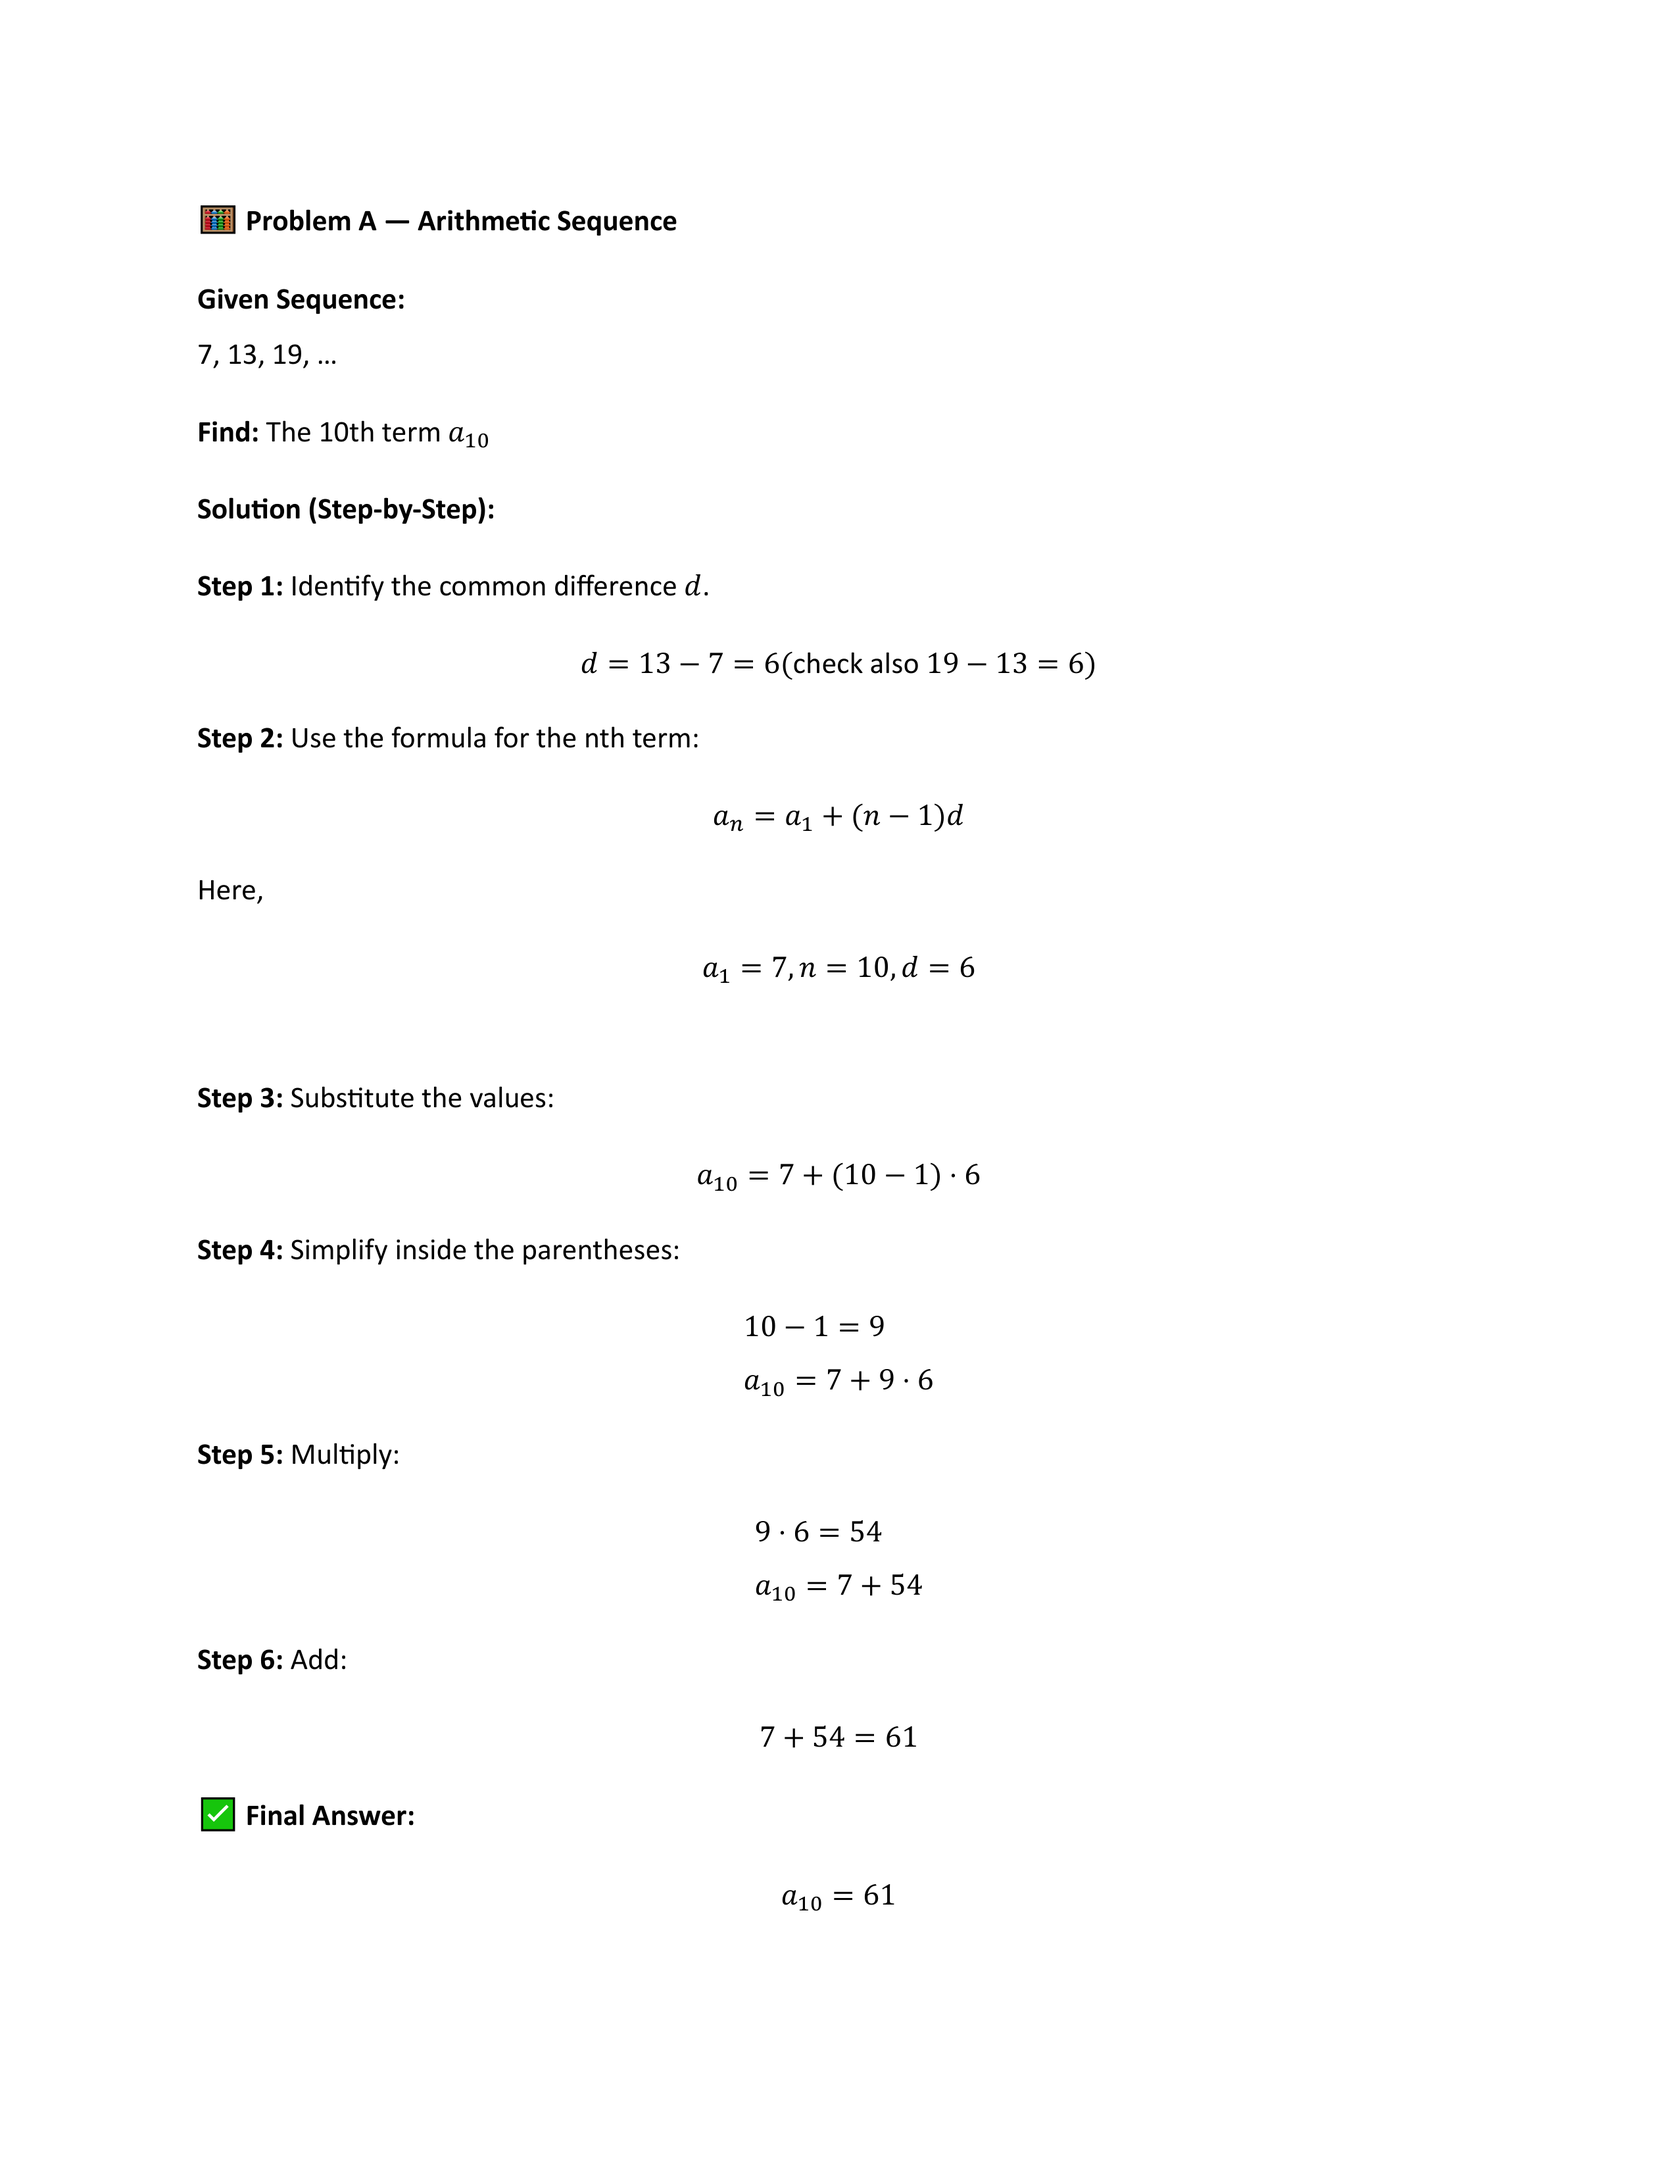
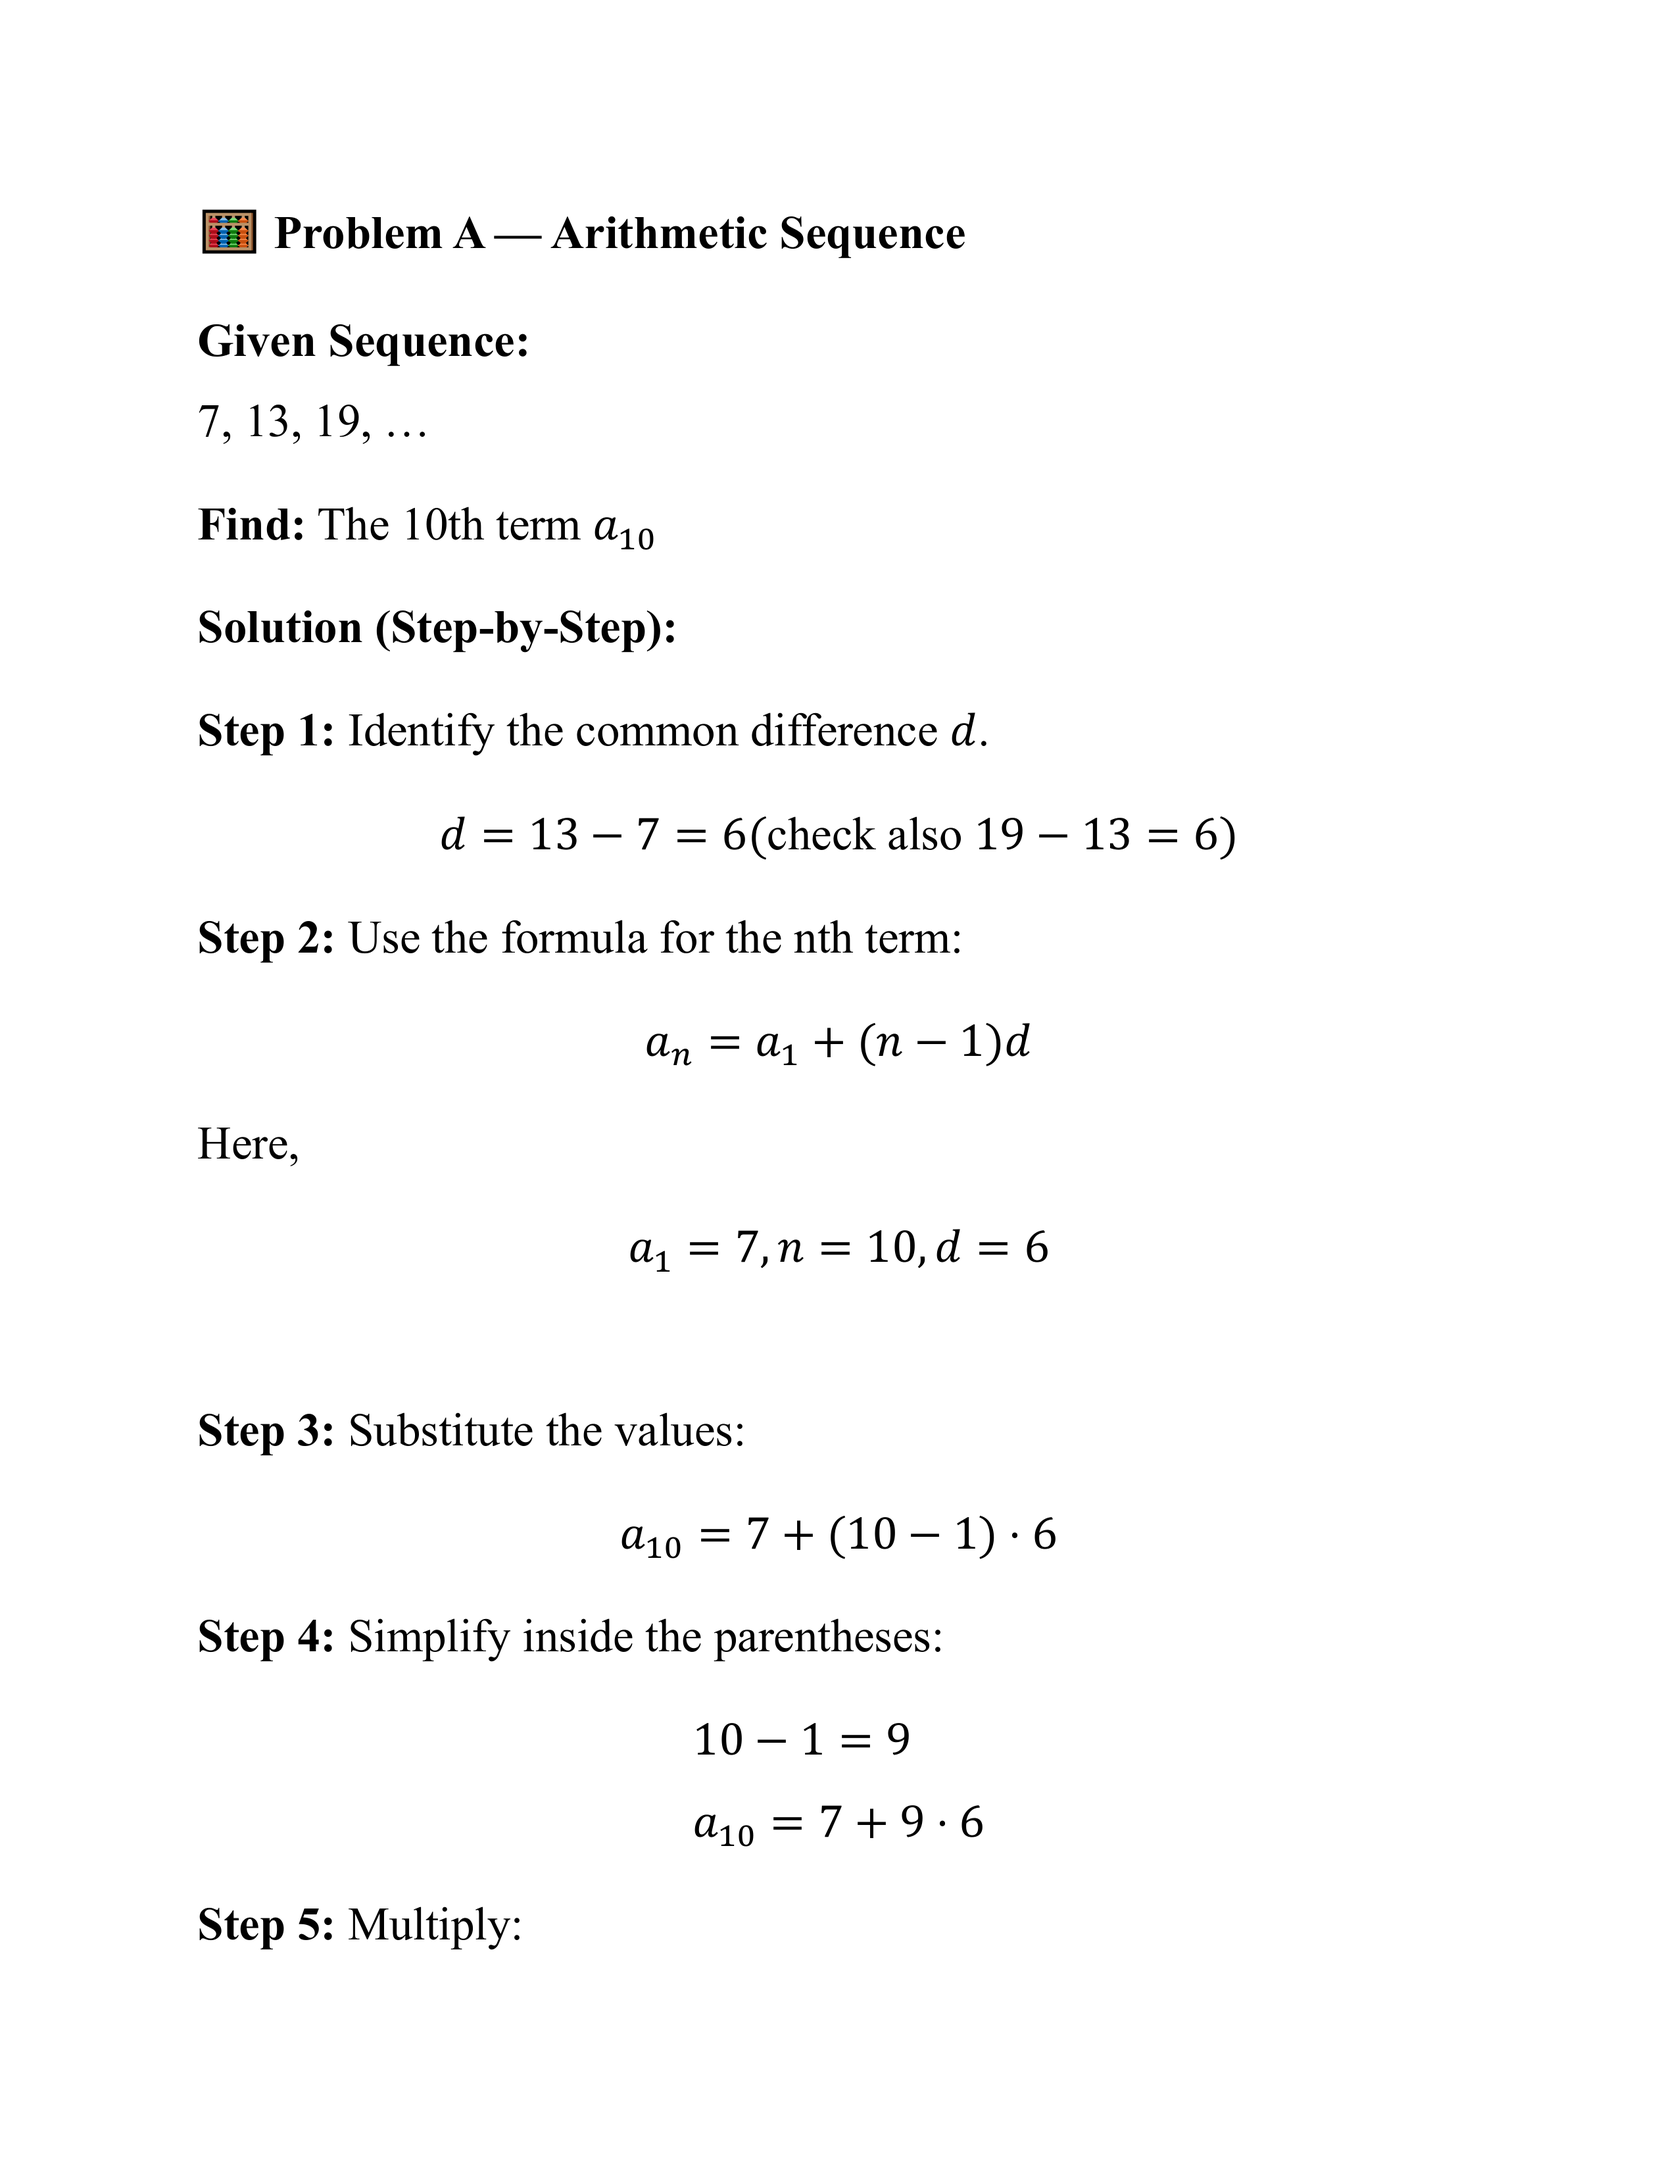
added module and a1

diff --git a/src/Dashboard/Arithmetic_Sequence/Arithmetic_Module.tsx b/src/Dashboard/Arithmetic_Sequence/Arithmetic_Module.tsx
@@ -14,6 +14,7 @@ import anImg from "../../assets/an_arithmetic.png";
 import discoverImg from "../../assets/who_discover_arithmetic.png";
 import a1Img1 from "../../assets/A-1.png";
 import a1Img2 from "../../assets/A-2.png";
+import a1Img3 from "../../assets/A-3.png";
 import dImg from "../../assets/d_arithmetic.png";
 import nImg from "../../assets/n_arithmetic.png";
 
@@ -25,7 +26,7 @@ const Arithmetic_Module: React.FC = () => {
     { src: string | string[]; label: string }
   > = {
     module: { src: anImg, label: "An Formula" },
-    a1: { src: [a1Img1, a1Img2], label: "Find a₁ (scroll to view more)" },
+    a1: { src: [a1Img1, a1Img2, a1Img3], label: "Find a₁ (scroll to view more)" },
     d: { src: dImg, label: "Find d" },
     n: { src: nImg, label: "Find n" },
   };
